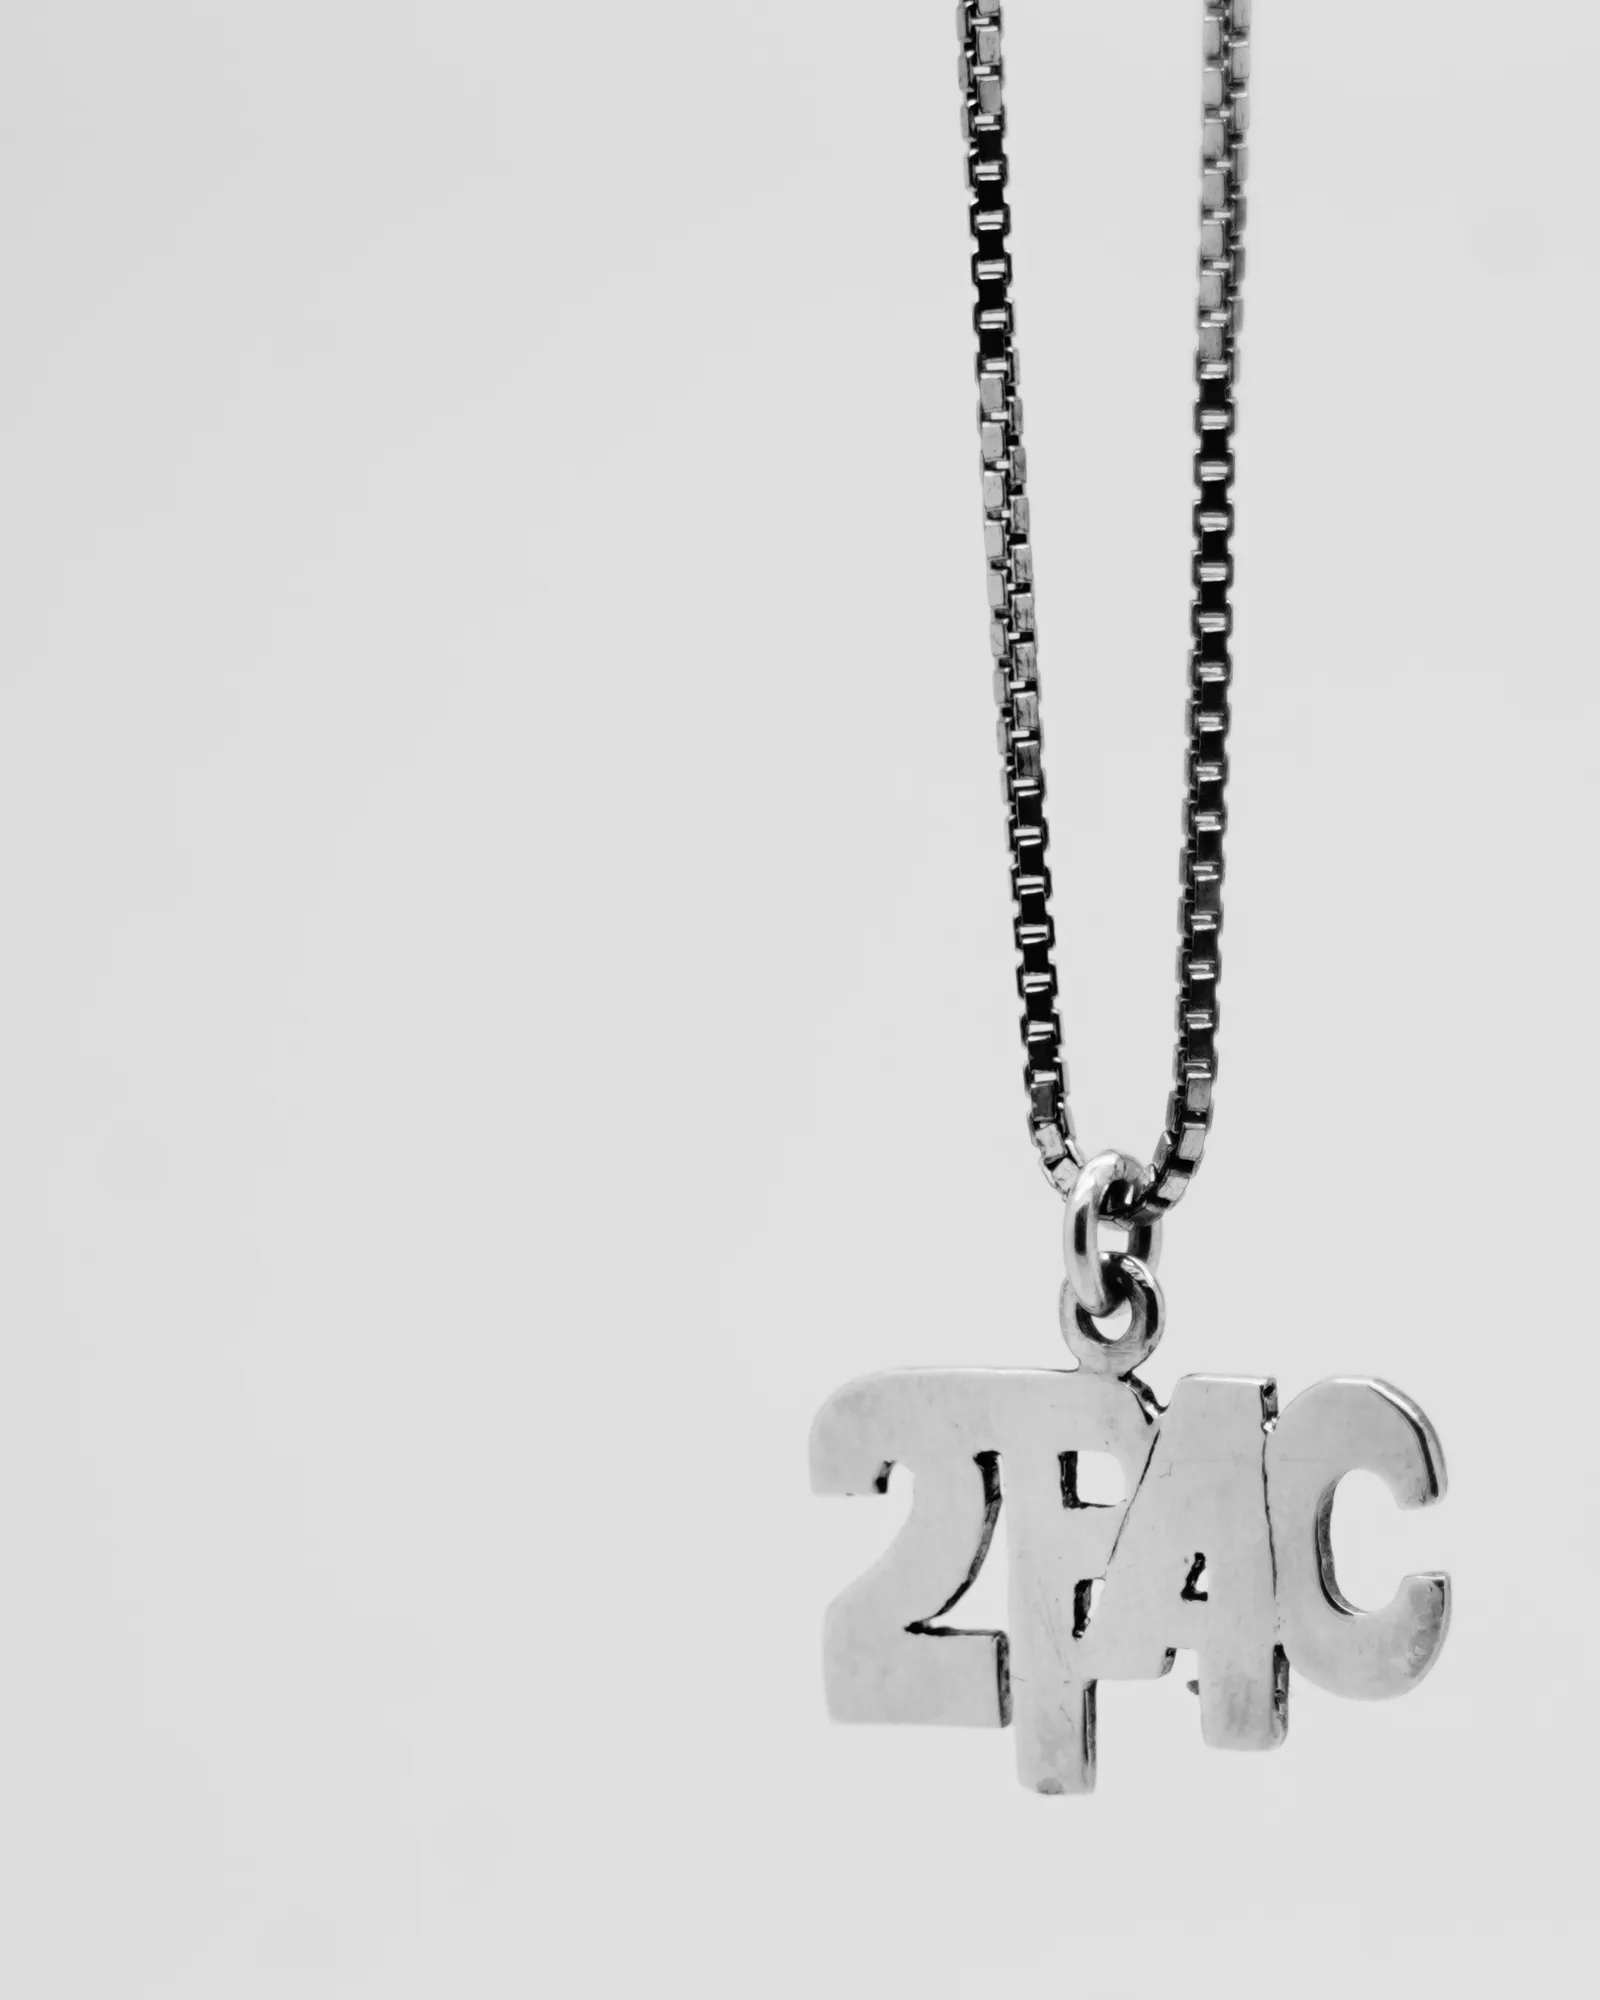
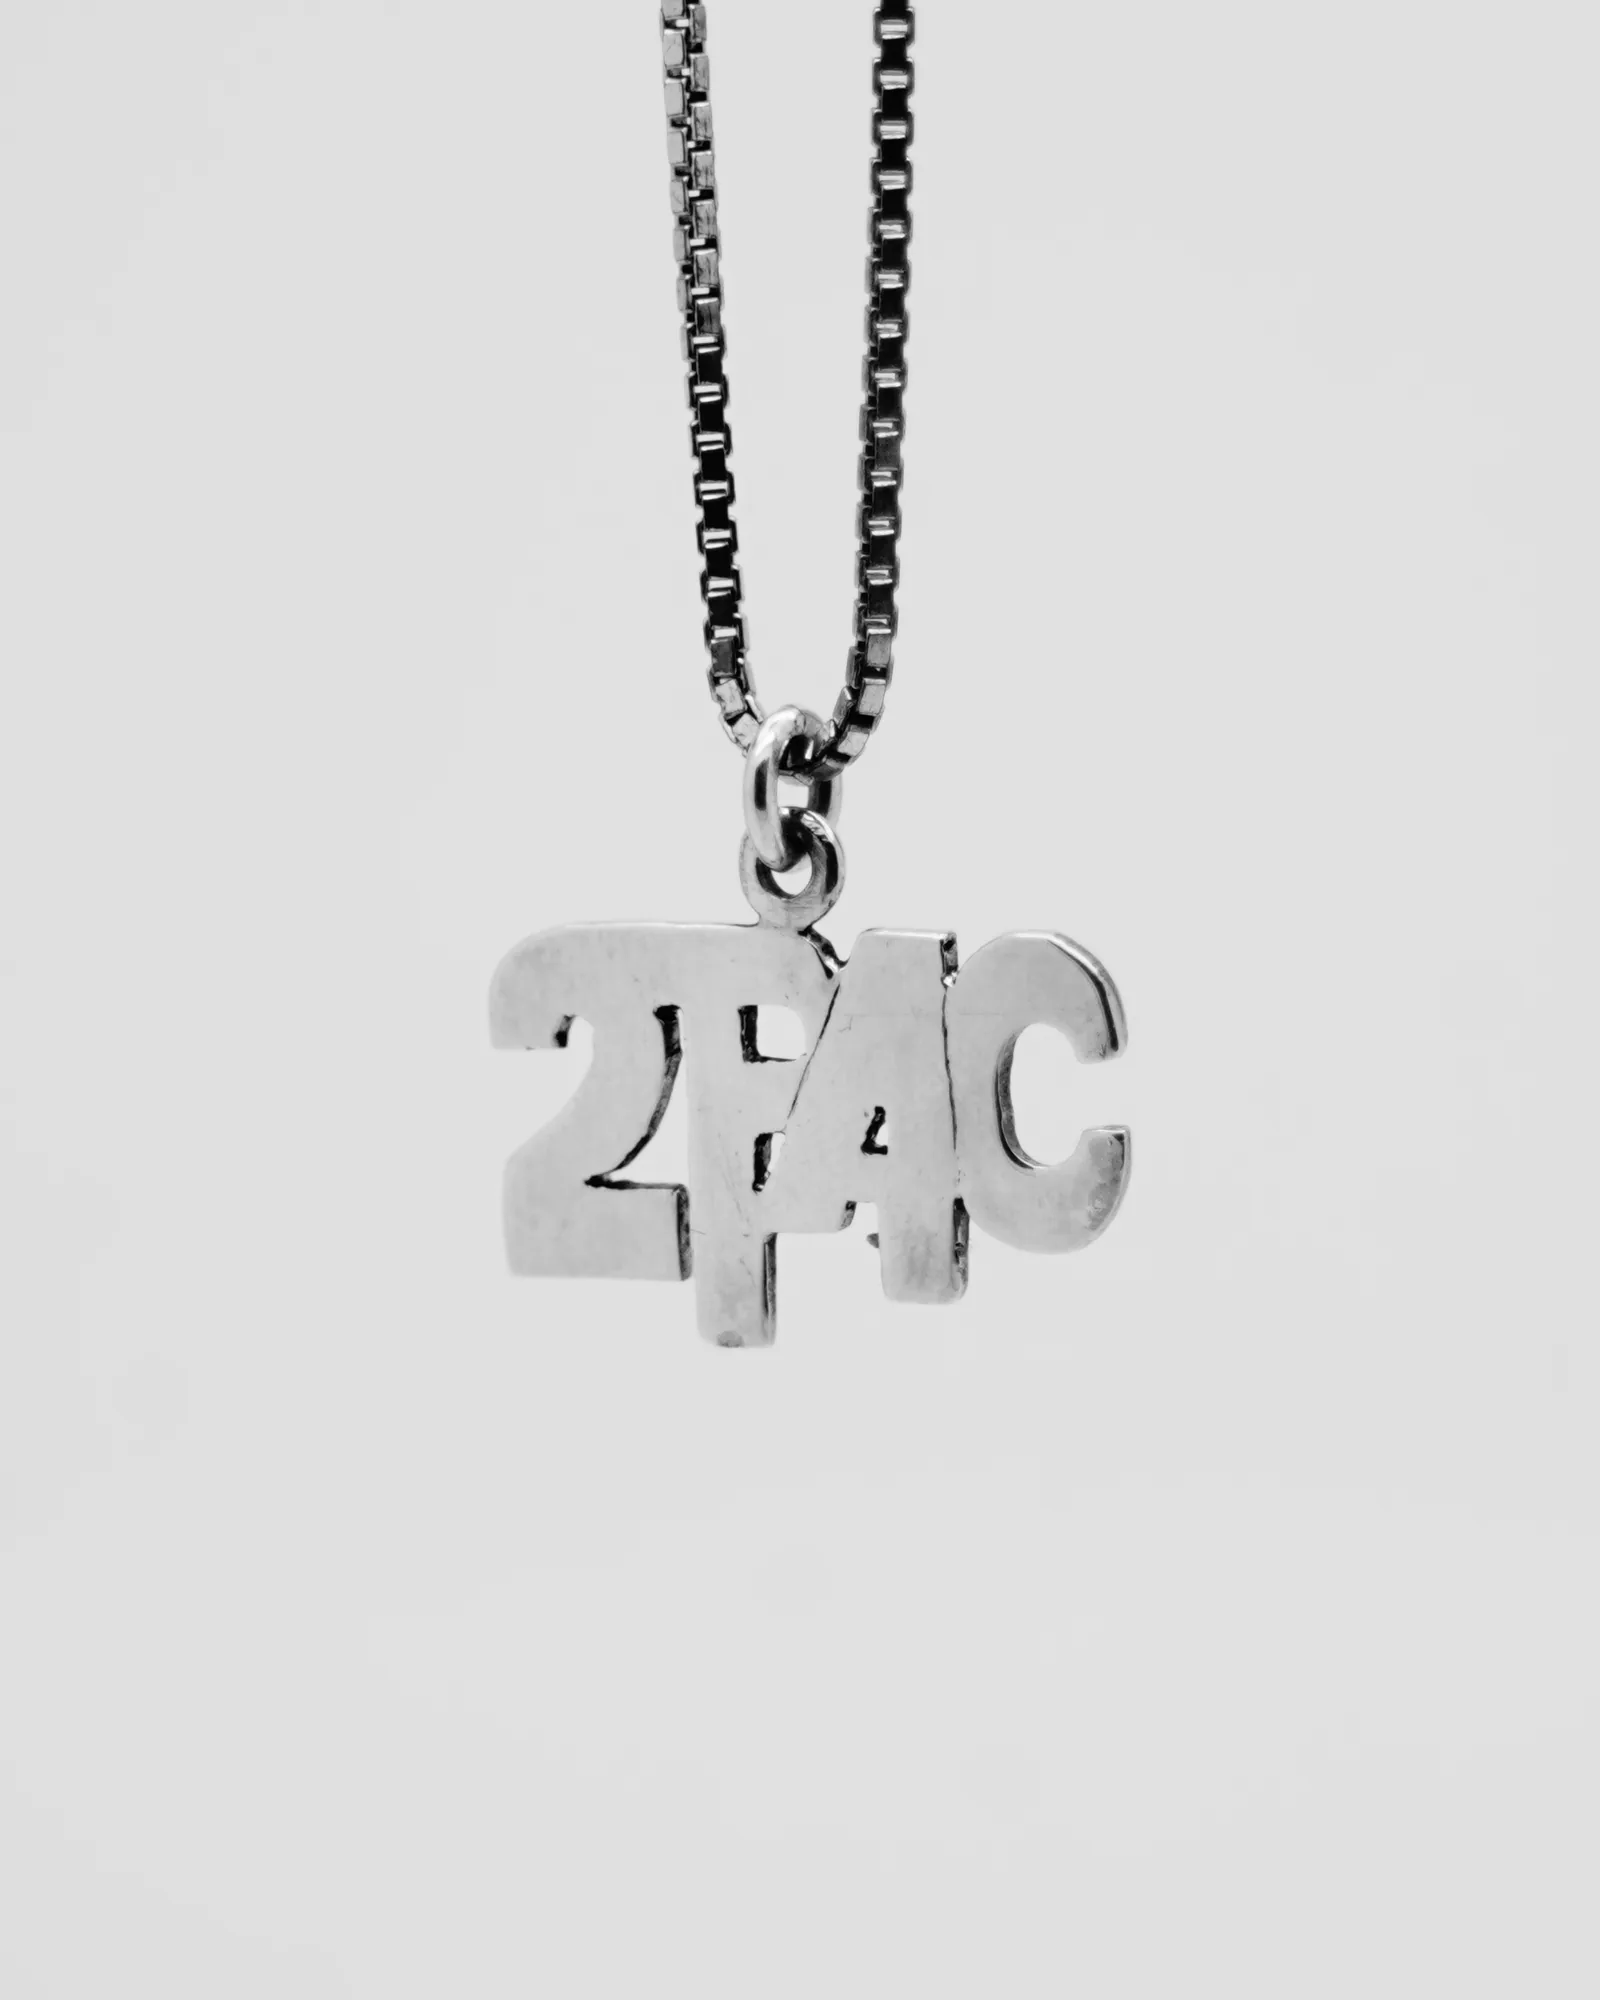
Foto prodotto ricentrate sul ciondolo; dipendenze fuori da iCloud
- Ritaglio 4:5 con il ciondolo al centro (posizione fissa, uniforme per tutte)
- node_modules in *.nosync con symlink: iCloud non evince più i file (vedi README)

Changed region(s): [[0.3125, 0.0, 0.9062, 0.899]]

diff --git a/README.md b/README.md
@@ -24,6 +24,8 @@ E-commerce di frenzjewelz.it. Astro 7 (on-demand su Cloudflare Workers) + Sanity
 
 Requisiti: Node 22.12+.
 
+> **Se il progetto sta in una cartella iCloud** (Desktop, Documenti): macOS può "ottimizzare lo spazio" e scaricare dal disco i file di `node_modules`, e Node resta appeso. Su questo Mac le dipendenze stanno in `node_modules.nosync` (iCloud ignora i `.nosync`) con `node_modules` come symlink. Dopo un `rm -rf node_modules` rifare: `npm ci && mv node_modules node_modules.nosync && ln -s node_modules.nosync node_modules`. Meglio ancora: tenere il repo fuori da iCloud.
+
 ### 1. Sanity
 
 ```bash
